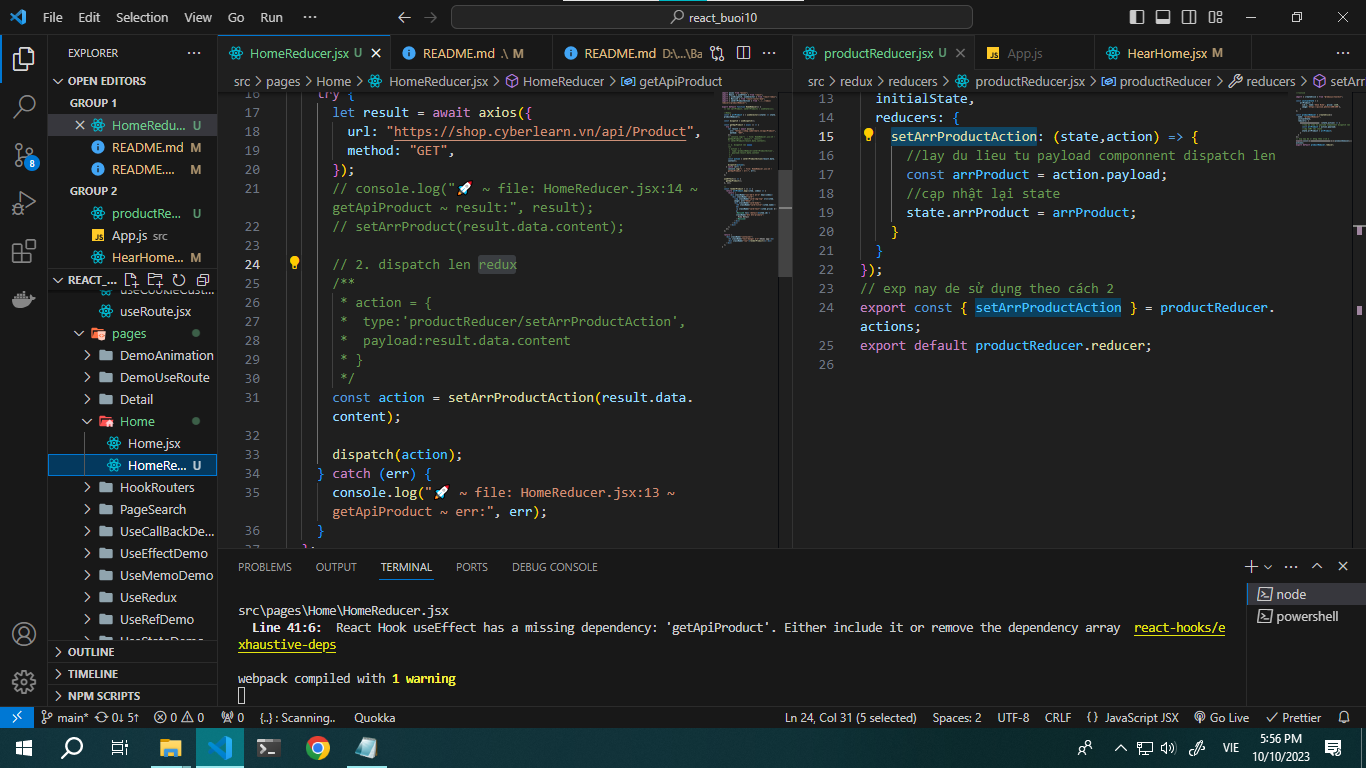
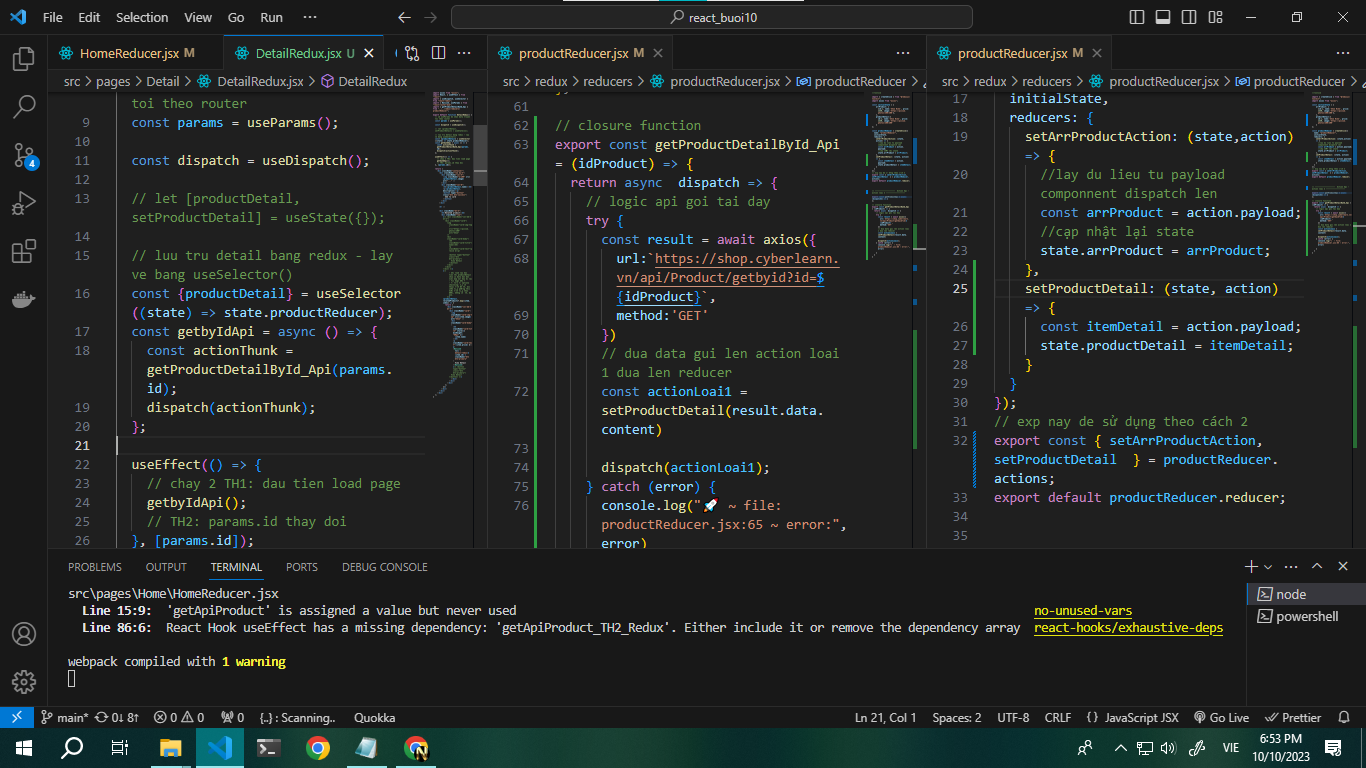
update HomeReducer: err name-fun; update detailRedux, su ly data theo redux/toolkit

diff --git a/react_buoi10/src/pages/Detail/DetailRedux.jsx b/react_buoi10/src/pages/Detail/DetailRedux.jsx
@@ -1,0 +1,98 @@
+import axios from "axios";
+import React, { useEffect } from "react";
+import { useDispatch, useSelector } from "react-redux";
+import { NavLink, useParams } from "react-router-dom";
+import { getProductDetailById_Api } from "../../redux/reducers/productReducer";
+
+export default function DetailRedux() {
+  // sd useParams de nhan data truyen toi theo router
+  const params = useParams();
+
+  const dispatch = useDispatch();
+
+  // let [productDetail, setProductDetail] = useState({});
+
+  // luu tru detail bang redux - lay ve bang useSelector()
+  const {productDetail} = useSelector((state) => state.productReducer);
+  const getbyIdApi = async () => {
+    const actionThunk = getProductDetailById_Api(params.id);
+    dispatch(actionThunk);
+  };
+
+  useEffect(() => {
+    // chay 2 TH1: dau tien load page
+    getbyIdApi();
+    // TH2: params.id thay doi
+  }, [params.id]);
+
+  return (
+    <div className="container">
+      <div className="row my-3">
+        <div className="col-4">
+          <img className="w-100" src={productDetail.image} alt="..." />
+        </div>
+        <div className="col-8">
+          <h3>{productDetail.name}</h3>
+          <p>{productDetail.description}</p>
+          <button type="button" class="btn btn-success">
+            Add to card
+          </button>
+        </div>
+      </div>
+
+      <hr />
+
+      <div className="mt-3">
+        <h3>Related product</h3>
+        <div className="row">
+          {/* <div className="col-md-3 mt-2">
+            <div className="card">
+              <img
+                className="card-img-top"
+                src="https://picsum.photos/200"
+                alt="Shoe"
+              />
+              <div className="card-body">
+                <h4 className="card-title">name</h4>
+                <p className="card-text">preice $</p>
+                
+                <button type="button" class="btn btn-primary">
+                  View Detail
+                </button>
+              </div>
+            </div>
+          </div> */}
+          {/* 
+                - khi load lay dau tien thi productDetail chua co data dan den viec map owr day bi lỗi
+                - fix bagn dấu ? 
+                - ?: toán tử optiona chainning: nếu có thuộc tính đó thì mới chấm tiếp phương thức hoặc tính tiếp theo được, không có  thì bỏ qua.
+              */}
+          {productDetail.relatedProducts?.map((item, index) => {
+            return (
+              <div className="col-md-3 mt-2">
+                <div className="card">
+                  <img className="card-img-top" src={item.image} alt="Shoe" />
+                  <div className="card-body">
+                    <h4 className="card-title" style={{ minHeight: "60px" }}>
+                      {item.name}
+                    </h4>
+                    <p className="card-text">{item.price} $</p>
+                    <NavLink
+                      to={`/detail-redux/${item.id}`}
+                      className="btn btn-primary"
+                    >
+                      View Detail
+                    </NavLink>
+                    {/* <button type="button" class="btn btn-primary">
+                  View Detail
+                </button> */}
+                  </div>
+                </div>
+              </div>
+            );
+          })}
+        </div>
+      </div>
+    </div>
+  );
+}

diff --git a/react_buoi10/src/redux/reducers/productReducer.jsx b/react_buoi10/src/redux/reducers/productReducer.jsx
@@ -6,7 +6,10 @@ import axios from "axios";
 const initialState = {
     arrProduct: [
       {id:1, name:'Shoe Nike', price: 1230, image:'https://picsum.photos/200/200'},
-    ]
+    ],
+    productDetail:{
+      id:1, name:'Shoe Nike', price: 1230, image:'https://picsum.photos/200/200'
+    }
 };
 
 const productReducer = createSlice({
@@ -18,17 +21,21 @@ const productReducer = createSlice({
       const arrProduct = action.payload;
       //cạp nhật lại state
       state.arrProduct = arrProduct;
+    },
+    setProductDetail: (state, action) => {
+      const itemDetail = action.payload;
+      state.productDetail = itemDetail;
     }
   }
 });
 // exp nay de sử dụng theo cách 2
-export const { setArrProductAction } = productReducer.actions;
+export const { setArrProductAction, setProductDetail  } = productReducer.actions;
 export default productReducer.reducer;
 
 
 
 
-// --------------------  Action Api-------------------
+// --------------------  Action Api - action loai 2 -------------------
 
 export const getProductApi = async (dispatch2) => {
   //su ly api o day
@@ -51,3 +58,23 @@ export const getProductApi = async (dispatch2) => {
     console.log("🚀 ~ file: HomeReducer.jsx:62 ~ action ~ error:", error);
   }
 };
+
+// closure function
+export const getProductDetailById_Api = (idProduct) => {
+  return async  dispatch => {
+    // logic api goi tai day
+    try {
+      const result = await axios({
+        url:`https://shop.cyberlearn.vn/api/Product/getbyid?id=${idProduct}`,
+        method:'GET'
+      })
+      // dua data gui len action loai 1 dua len reducer
+      const actionLoai1 = setProductDetail(result.data.content)
+
+      dispatch(actionLoai1);
+    } catch (error) {
+      console.log("🚀 ~ file: productReducer.jsx:65 ~ error:", error)
+      
+    }
+  }
+}

diff --git a/react_buoi10/src/pages/Home/HomeReducer.jsx b/react_buoi10/src/pages/Home/HomeReducer.jsx
@@ -2,7 +2,7 @@ import axios from "axios";
 import React, { useEffect } from "react";
 import { useDispatch, useSelector } from "react-redux";
 import { NavLink } from "react-router-dom";
-import { setArrProductAction } from "../../redux/reducers/productReducer";
+import { getProductApi, setArrProductAction } from "../../redux/reducers/productReducer";
 
 export default function HomeReducer() {
   // let [arrProduct, setArrProduct] = useState([]);
@@ -76,7 +76,7 @@ export default function HomeReducer() {
     //   }
     // };
 
-    const action = getApiProduct;
+    const action = getProductApi;
       // 3. dispath action chinh
       dispatch(action);
   };
@@ -95,7 +95,7 @@ export default function HomeReducer() {
             <div className="card-body">
               <h4 className="card-title">{item.name}</h4>
               <p className="card-text">{item.price} $</p>
-              <NavLink to={`/detail/${item.id}`} className="btn btn-primary">
+              <NavLink to={`/detail-redux/${item.id}`} className="btn btn-primary">
                 View Detail
               </NavLink>
             </div>

diff --git a/react_buoi10/src/index.js b/react_buoi10/src/index.js
@@ -23,6 +23,7 @@ import Search from "./pages/PageSearch/Search";
 import DemoUseRoute from "./pages/DemoUseRoute/DemoUseRoute";
 import DemoAnimation from "./pages/DemoAnimation/DemoAnimation";
 import HomeReducer from "./pages/Home/HomeReducer";
+import DetailRedux from "./pages/Detail/DetailRedux";
 
 const root = ReactDOM.createRoot(document.getElementById("root"));
 root.render(
@@ -34,6 +35,9 @@ root.render(
           <Route path="home-reducer" element={<HomeReducer />} ></Route>
           <Route path="detail" >
             <Route path=":id" element={<Detail />} ></Route>
+          </Route>
+          <Route path="detail-redux" >
+            <Route path=":id" element={<DetailRedux />} ></Route>
           </Route>
           <Route path="use_state" element={<UseStateDemo />}></Route>
           <Route path="use_effect" element={<UseEffectDemo />}></Route>
